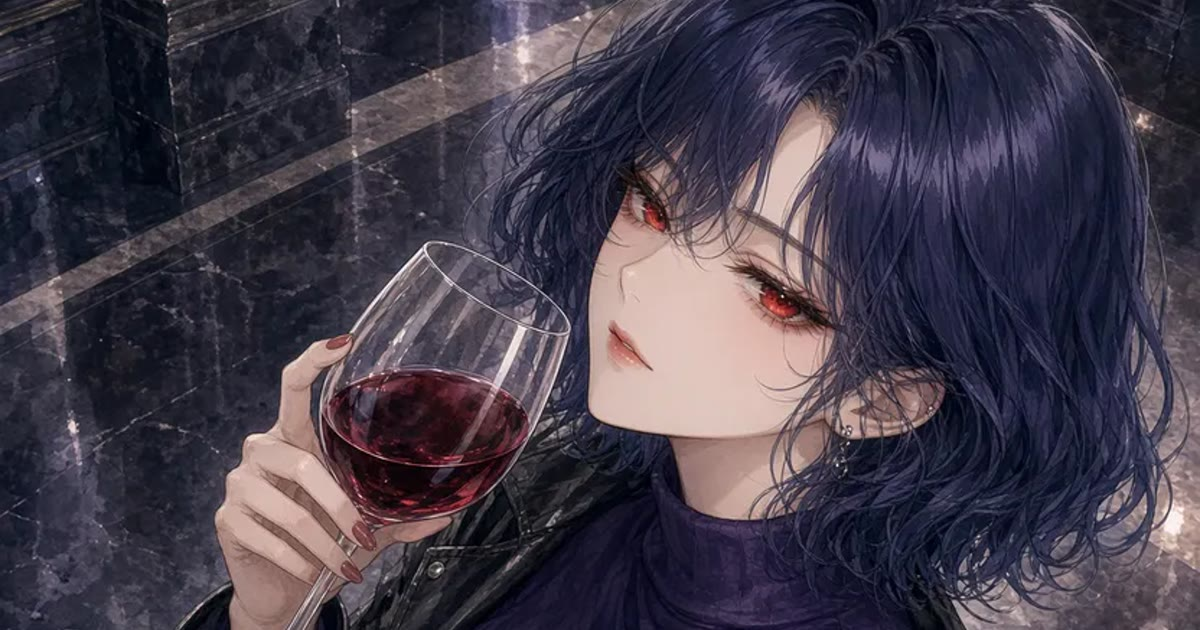
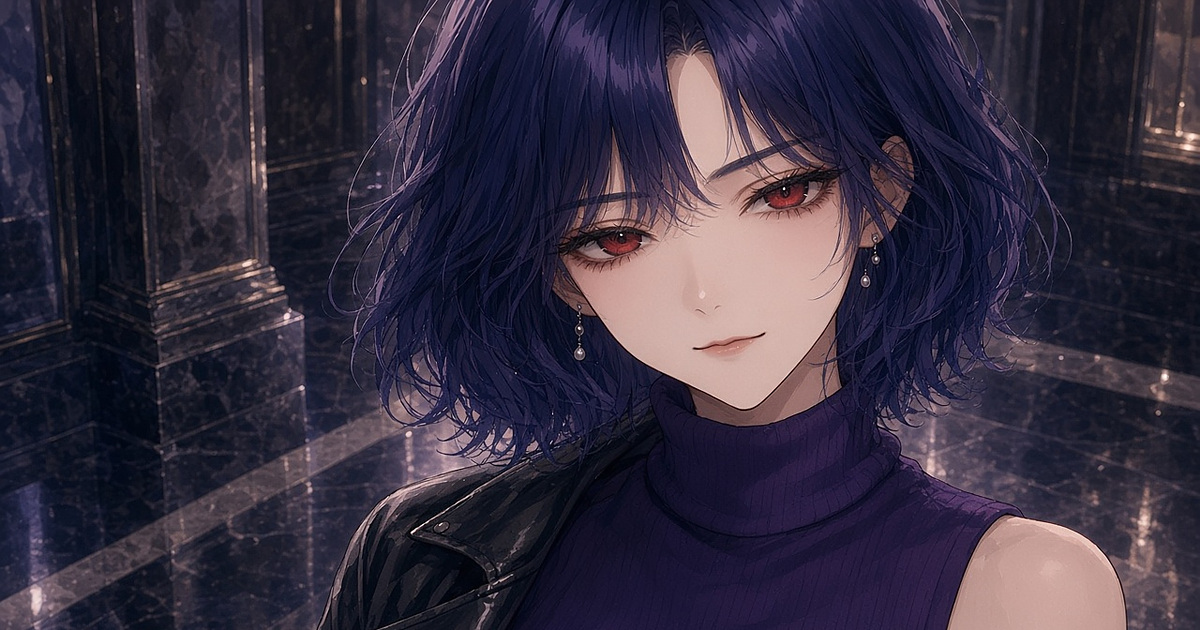
Use the approved 임유리 key art on the title and share image.
The portrait fills the first screen, with the title and buttons in the empty bands, and og:image points at the 1200x630 jpg. Asset URLs are now ?v=7.

diff --git a/index.html b/index.html
@@ -11,7 +11,7 @@
   <meta name="apple-mobile-web-app-capable" content="yes">
   <link rel="canonical" href="https://battle.mbbs.kr/">
   <link rel="icon" href="./favicon.png">
-  <link rel="preload" as="image" href="./img/featured.webp">
+  <link rel="preload" as="image" href="./img/teaser-title.webp?v=7" type="image/webp">
   <meta property="og:type" content="website">
   <meta property="og:site_name" content="VR Battle Masters">
   <meta property="og:locale" content="ko_KR">
@@ -28,7 +28,7 @@
   <meta name="twitter:image" content="https://battle.mbbs.kr/img/og.jpg">
   <meta name="twitter:image:alt" content="임유리">
   <script type="application/ld+json">{"@context":"https://schema.org","@type":"VideoGame","name":"VR Battle Masters","description":"어비스게이트의 느낌을 살린 카드 배틀입니다. 여러분만의 덱을 완성해보세요!","url":"https://battle.mbbs.kr/","image":"https://battle.mbbs.kr/img/og.jpg","inLanguage":"ko","genre":"CardGame","gamePlatform":["Web browser","Mobile"],"applicationCategory":"Game","offers":{"@type":"Offer","price":"0","priceCurrency":"KRW"}}</script>
-  <link rel="stylesheet" href="./css/style.css?v=6">
+  <link rel="stylesheet" href="./css/style.css?v=7">
   <script>
     window.dataLayer = window.dataLayer || [];
     function gtag(){dataLayer.push(arguments);}
@@ -63,16 +63,21 @@
   <main>
     <section id="main-screen" class="section screen-title">
       <div class="hero-art">
-        <img id="featured-art" src="./img/featured.webp" alt="임유리" width="840" height="1260">
-        <div class="hero-copy">
-          <button id="start-btn" class="btn-start" type="button">배틀 시작</button>
-          <button id="mode-other-btn" class="btn-text" type="button">라운드 변경하기</button>
+        <div class="hero-frame">
+          <picture>
+            <source srcset="./img/teaser-title.webp?v=7" type="image/webp">
+            <img id="featured-art" src="./img/teaser-title.png?v=7" alt="임유리" width="1080" height="1920">
+          </picture>
+          <div class="hero-top">
+            <h1><span>VR</span>BATTLE MASTERS</h1>
+            <p class="lede">어비스게이트의 느낌을 살린 카드 배틀입니다. 여러분만의 덱을 완성해보세요!</p>
+            <p id="shared-banner" class="shared-banner" hidden></p>
+          </div>
+          <div class="hero-copy">
+            <button id="start-btn" class="btn-start" type="button">배틀 시작</button>
+            <button id="mode-other-btn" class="btn-text" type="button">라운드 변경하기</button>
+          </div>
         </div>
-      </div>
-      <div class="title-block wrap">
-        <h1><span>VR</span>BATTLE MASTERS</h1>
-        <p class="lede">어비스게이트의 느낌을 살린 카드 배틀입니다. 여러분만의 덱을 완성해보세요!</p>
-        <p id="shared-banner" class="shared-banner" hidden></p>
       </div>
       <ol class="howto wrap" id="howto">
         <li><b>기본 10 Vs. 10</b><span>5 Vs. 5 또는 20 Vs. 20으로 배틀할 수 있습니다.</span></li>
@@ -209,7 +214,7 @@
     <div class="modal-card" id="modal-content"></div>
   </div>
 
-  <script type="module" src="./js/main.js?v=6"></script>
-  <script src="js/footer.js?v=6" data-current="battle" data-mode="flow" data-show="#main-screen,#choice-screen,#deck-screen,#result-screen,#rank-screen"></script>
+  <script type="module" src="./js/main.js?v=7"></script>
+  <script src="js/footer.js?v=7" data-current="battle" data-mode="flow" data-show="#main-screen,#choice-screen,#deck-screen,#result-screen,#rank-screen"></script>
 </body>
 </html>

diff --git a/css/style.css b/css/style.css
@@ -78,19 +78,71 @@ h1, h2, h3 { font-weight: 800; letter-spacing: -0.03em; margin: 0; }
 .screen { padding: 18px 0 28px; }
 .screen-title { padding-top: 0; }
 
-.hero-art { position: relative; height: min(92dvh, 920px); overflow: hidden; background: #120910; }
-.hero-art img { width: 100%; height: 100%; object-fit: cover; object-position: center 12%; }
-.hero-art::after {
-  content: "";
-  position: absolute; inset: auto 0 0; z-index: 1;
-  height: 48%;
-  background: linear-gradient(transparent, rgba(7, 6, 12, 0.2) 20%, var(--bg));
-  pointer-events: none;
+body:has(#main-screen.active) .topbar {
+  position: fixed;
+  left: 0;
+  right: 0;
+  background: linear-gradient(180deg, rgba(0, 0, 0, 0.55), rgba(0, 0, 0, 0));
+  border-bottom-color: transparent;
+  backdrop-filter: none;
+}
+.hero-art {
+  min-height: 100svh;
+  display: grid;
+  place-items: center;
+  background: #07060c;
+}
+.hero-frame {
+  position: relative;
+  height: 100svh;
+  width: min(100vw, calc(100svh * 1080 / 1920));
+}
+.hero-frame picture, .hero-frame img {
+  width: 100%;
+  height: 100%;
+  max-width: none;
+  object-fit: cover;
+  object-position: center center;
+}
+.hero-top {
+  position: absolute;
+  z-index: 2;
+  left: 16px;
+  right: 16px;
+  top: 0;
+  height: 18%;
+  display: flex;
+  flex-direction: column;
+  justify-content: flex-end;
+  padding-bottom: 4px;
+  overflow: hidden;
+}
+.hero-top h1 {
+  font-size: clamp(26px, 4vh, 64px);
+  text-shadow: 0 2px 18px rgba(0, 0, 0, 0.85);
+}
+.hero-top .lede {
+  margin-top: 6px;
+  color: #f6f1ea;
+  font-size: clamp(12px, 1.55vh, 18px);
+  line-height: 1.35;
+  text-shadow: 0 1px 10px rgba(0, 0, 0, 0.9);
 }
 .hero-copy {
-  position: absolute; z-index: 2;
-  left: 16px; right: 16px; bottom: calc(14px + var(--safe-b));
+  position: absolute;
+  z-index: 2;
+  left: 16px;
+  right: 16px;
+  bottom: 0;
+  height: 22%;
+  display: flex;
+  flex-direction: column;
+  justify-content: center;
+  gap: 6px;
+  padding-bottom: var(--safe-b);
 }
+.hero-copy .btn-start,
+.hero-copy .btn-text { margin-top: 0; }
 .hero-name {
   margin: 0 0 8px;
   font-size: clamp(56px, 18vw, 104px);
@@ -109,6 +161,12 @@ h1 span {
   background-clip: text;
   color: transparent;
 }
+.screen-title .hero-top h1 {
+  font-size: clamp(26px, 4vh, 64px);
+  line-height: 0.95;
+}
+.screen-title .hero-top h1 span { display: inline; margin-right: 0.18em; }
+.hero-frame picture { display: block; height: 100%; }
 .btn-start, .btn-deploy {
   display: inline-flex; align-items: center; justify-content: center;
   width: 100%;

diff --git a/js/ui.js b/js/ui.js
@@ -1,12 +1,12 @@
-import { OFFICIAL_CHANNELS, MODE_COPY, MODE_DISTRIBUTION, resolvedDefaultMode } from './config.js?v=6';
-import { gameState } from './state.js?v=6';
-import { cardImgHtml, createCardElement } from './cards.js?v=6';
-import { cardPool } from './data.js?v=6';
-import { byPower, esc, fmtNum, genderLabel, getGradeClass } from './utils.js?v=6';
-import { playBGM } from './audio.js?v=6';
-import { renderShareBar } from './share.js?v=6';
-import { fetchBoard, rankNote, submitRun } from './ranking.js?v=6';
-import { indexCards, pickSpotlight, readSharedQuery, spotlightLabel } from './rank-core.js?v=6';
+import { OFFICIAL_CHANNELS, MODE_COPY, MODE_DISTRIBUTION, resolvedDefaultMode } from './config.js?v=7';
+import { gameState } from './state.js?v=7';
+import { cardImgHtml, createCardElement } from './cards.js?v=7';
+import { cardPool } from './data.js?v=7';
+import { byPower, esc, fmtNum, genderLabel, getGradeClass } from './utils.js?v=7';
+import { playBGM } from './audio.js?v=7';
+import { renderShareBar } from './share.js?v=7';
+import { fetchBoard, rankNote, submitRun } from './ranking.js?v=7';
+import { indexCards, pickSpotlight, readSharedQuery, spotlightLabel } from './rank-core.js?v=7';
 
 let rankMode = resolvedDefaultMode();
 
@@ -211,7 +211,7 @@ export function showDeployBar(card) {
   document.body.classList.add('deploying');
   document.getElementById('info-btn').addEventListener('click', () => showCardModal(card));
   document.getElementById('deploy-btn').addEventListener('click', () => {
-    import('./battle.js?v=6').then((mod) => mod.deploySelectedCard());
+    import('./battle.js?v=7').then((mod) => mod.deploySelectedCard());
   });
   document.getElementById('cancel-btn').addEventListener('click', () => {
     gameState.selectedCardId = null;

diff --git a/js/main.js b/js/main.js
@@ -1,7 +1,7 @@
-import { findFeatured, loadRealData } from './data.js?v=6';
-import { resolvedDefaultMode } from './config.js?v=6';
-import { gameState, resetGameState } from './state.js?v=6';
-import { dealCards } from './cards.js?v=6';
+import { findFeatured, loadRealData } from './data.js?v=7';
+import { resolvedDefaultMode } from './config.js?v=7';
+import { gameState, resetGameState } from './state.js?v=7';
+import { dealCards } from './cards.js?v=7';
 import {
   hideCardModal,
   renderChannels,
@@ -14,10 +14,10 @@ import {
   toggleHandSort,
   showRankScreen,
   showScreen
-} from './ui.js?v=6';
-import { invalidateBattle } from './battle.js?v=6';
-import { shuffle } from './utils.js?v=6';
-import { armMusic, toggleMute, unlockAudio } from './audio.js?v=6';
+} from './ui.js?v=7';
+import { invalidateBattle } from './battle.js?v=7';
+import { shuffle } from './utils.js?v=7';
+import { armMusic, toggleMute, unlockAudio } from './audio.js?v=7';
 
 let cardsReady = false;
 

diff --git a/js/cards.js b/js/cards.js
@@ -1,6 +1,6 @@
-import { CARD_FALLBACK, IMAGE_BASE, INCLUDE_MALE_CARDS, MODE_DISTRIBUTION, THUMB_BASE } from './config.js?v=6';
-import { cardPool } from './data.js?v=6';
-import { esc, fmtNum, getGradeClass, shuffle } from './utils.js?v=6';
+import { CARD_FALLBACK, IMAGE_BASE, INCLUDE_MALE_CARDS, MODE_DISTRIBUTION, THUMB_BASE } from './config.js?v=7';
+import { cardPool } from './data.js?v=7';
+import { esc, fmtNum, getGradeClass, shuffle } from './utils.js?v=7';
 
 export function dealCards(mode) {
   const dist = MODE_DISTRIBUTION[mode];

diff --git a/js/config.js b/js/config.js
@@ -2,7 +2,7 @@
 
 export const IMAGE_BASE = 'https://raw.githubusercontent.com/steveJea/vr-ideal-worldcup/main/img/bt_img/';
 export const THUMB_BASE = 'https://raw.githubusercontent.com/steveJea/vr-tcg/main/img/thumb/';
-export const CARD_DATA_URL = './data/cards.json?v=6';
+export const CARD_DATA_URL = './data/cards.json?v=7';
 export const CARD_FALLBACK = './img/card-fallback.svg';
 
 // 화면 배경음. 각 곡은 기존 트랙을 약 45초로 자른 루프다.

diff --git a/js/share.js b/js/share.js
@@ -1,6 +1,6 @@
-import { SHARE_PROVIDERS } from './config.js?v=6';
-import { buildShareText, buildShareUrl } from './rank-core.js?v=6';
-import { fmtNum } from './utils.js?v=6';
+import { SHARE_PROVIDERS } from './config.js?v=7';
+import { buildShareText, buildShareUrl } from './rank-core.js?v=7';
+import { fmtNum } from './utils.js?v=7';
 
 function sharePayload(record) {
   const href = typeof location !== 'undefined' ? location.href : 'https://battle.mbbs.kr/';

diff --git a/js/battle.js b/js/battle.js
@@ -1,12 +1,12 @@
-import { gameState } from './state.js?v=6';
-import { renderVsCard } from './cards.js?v=6';
+import { gameState } from './state.js?v=7';
+import { renderVsCard } from './cards.js?v=7';
 import {
   updateBattleUI,
   renderMyHand,
   renderOppRemaining,
   renderUsedCards,
   finishGame
-} from './ui.js?v=6';
+} from './ui.js?v=7';
 
 let battleSeq = 0;
 

diff --git a/js/data.js b/js/data.js
@@ -1,4 +1,4 @@
-import { CARD_DATA_URL, FEATURED_HEROINE_NAME, INCLUDE_MALE_CARDS } from './config.js?v=6';
+import { CARD_DATA_URL, FEATURED_HEROINE_NAME, INCLUDE_MALE_CARDS } from './config.js?v=7';
 
 export let cardPool = [];
 

diff --git a/js/ranking.js b/js/ranking.js
@@ -1,4 +1,4 @@
-import { RANK_API_BASE } from './config.js?v=6';
+import { RANK_API_BASE } from './config.js?v=7';
 
 function endpoint(path) {
   return `${RANK_API_BASE}${path}`;

diff --git a/js/utils.js b/js/utils.js
@@ -1,4 +1,4 @@
-import { GRADE_COLORS } from './config.js?v=6';
+import { GRADE_COLORS } from './config.js?v=7';
 
 export function shuffle(arr) {
   const copy = [...arr];

diff --git a/js/audio.js b/js/audio.js
@@ -1,4 +1,4 @@
-import { BGM } from './config.js?v=6';
+import { BGM } from './config.js?v=7';
 
 let currentAudio = null;
 let currentKey = null;
